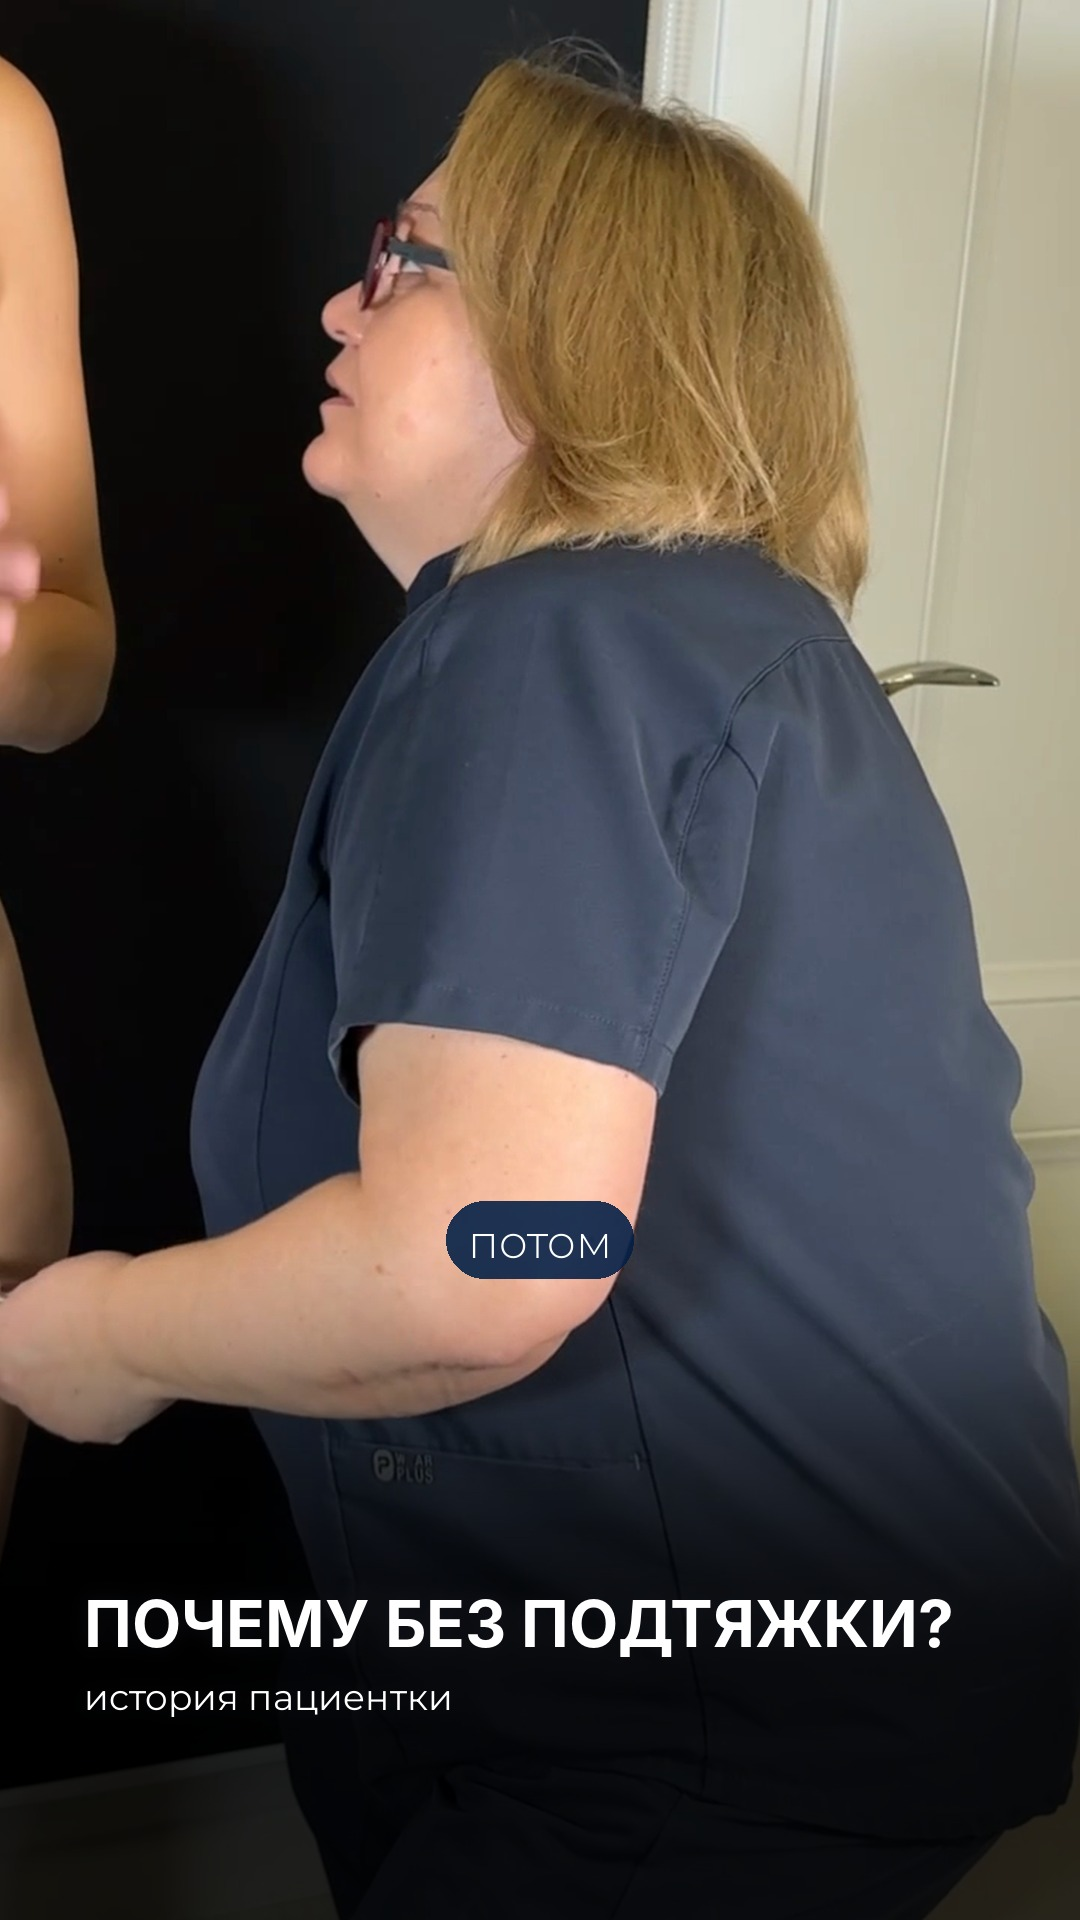
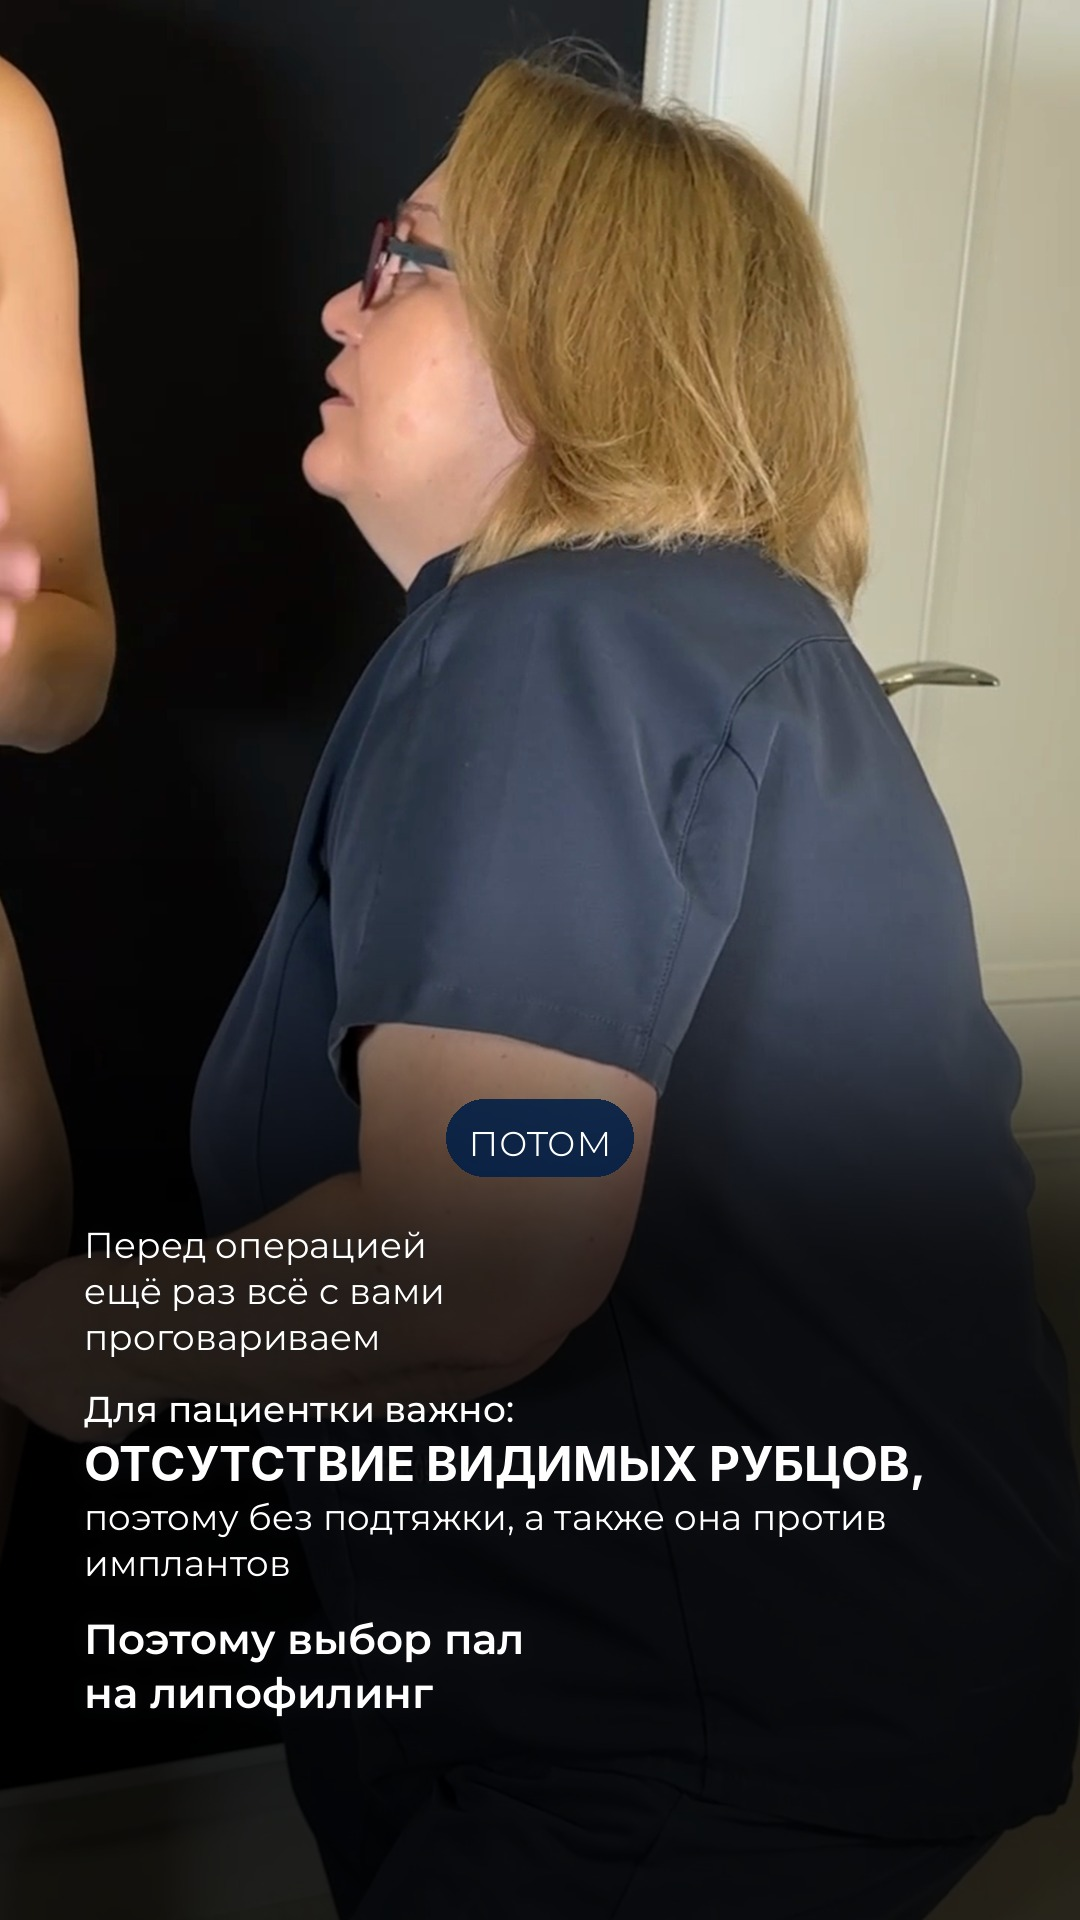
Story 1: new text (talk before surgery, no visible scars, no implants -> fat grafting)
Claude-Session: https://claude.ai/code/session_01DoBoRz2HUe4yvMBz6dWv4L

Changed region(s): [[0.0, 0.5, 1.0, 0.9062]]

diff --git a/tools/stories_breast_fat_only.py b/tools/stories_breast_fat_only.py
@@ -689,10 +689,15 @@ def story(num, slug, clip, col, sub_y, ct=0.0, more=(), animate=False, fade=True
 # ---------------- stories ----------------
 def s1():
     col = Column(0, align="left")
-    col.head("ПОЧЕМУ БЕЗ ПОДТЯЖКИ?", 0, size=64, gap=14)
-    col.body("история пациентки", 0, size=36, wght=400, gap=0)
+    for i, ln in enumerate(["Перед операцией", "ещё раз всё с вами", "проговариваем"]):
+        col.body(ln, 0, size=36, wght=400, gap=0 if i < 2 else 26)
+    col.body("Для пациентки важно:", 0, size=36, wght=500, gap=4)
+    col.head("ОТСУТСТВИЕ ВИДИМЫХ РУБЦОВ,", 0, size=48, gap=4)
+    col.body("поэтому без подтяжки, а также она против имплантов", 0, size=36, wght=400, gap=26)
+    col.body("Поэтому выбор пал", 0, size=42, wght=600, gap=0)
+    col.body("на липофилинг", 0, size=42, wght=600, gap=0)
     col.to_bottom(1720)
-    story(1, "pochemu_bez_podtyazhki", "d1.mp4", col, sub_y=1240)
+    story(1, "pochemu_bez_podtyazhki", "d1.mp4", col, sub_y=col.top - 60)
 
 
 def s2():

diff --git a/stories_breast_fat_only/README.md b/stories_breast_fat_only/README.md
@@ -16,7 +16,7 @@ clean_speech.py v4.mp4 asr/v4.mp4.json d5.mp4 0-31.4 --drawn --cut 0-1.77,26.08-
 
 | № | Файл | Исходник | Текст |
 |---|------|----------|-------|
-| 1 | 01_pochemu_bez_podtyazhki | видео 2, 0:04–0:33 — история пациентки, «не хочу ни надрезов…» | ПОЧЕМУ БЕЗ ПОДТЯЖКИ? / история пациентки |
+| 1 | 01_pochemu_bez_podtyazhki | видео 2, 0:04–0:33 — история пациентки, «не хочу ни надрезов…» | Перед операцией ещё раз всё с вами проговариваем / Для пациентки важно: ОТСУТСТВИЕ ВИДИМЫХ РУБЦОВ, поэтому без подтяжки, а также она против имплантов / Поэтому выбор пал на липофилинг |
 | 2 | 02_podtyazhki_ne_budet | видео 1, 0:20–0:27 — начинается с «она будет чуть наполненнее», субтитры выставлены вручную | ПОДТЯЖКИ ТУТ НЕ БУДЕТ / таково желание пациентки / работать будем только за счёт жировой ткани >>> |
 | 3 | 03_otkuda_zhir | видео 1: 0:37–1:02 + 1:35–1:42 — откуда забираем жир, про колени | ОТКУДА ЗАБИРАЕМ ЖИР: бёдра, колени, галифе, фланги (появляются по очереди) + тезис про колени |
 | 4 | 04_segodnya_lipofiling | видео 3 целиком, паузы вырезаны | СЕГОДНЯ ЛИПОФИЛИНГ ГРУДИ |
